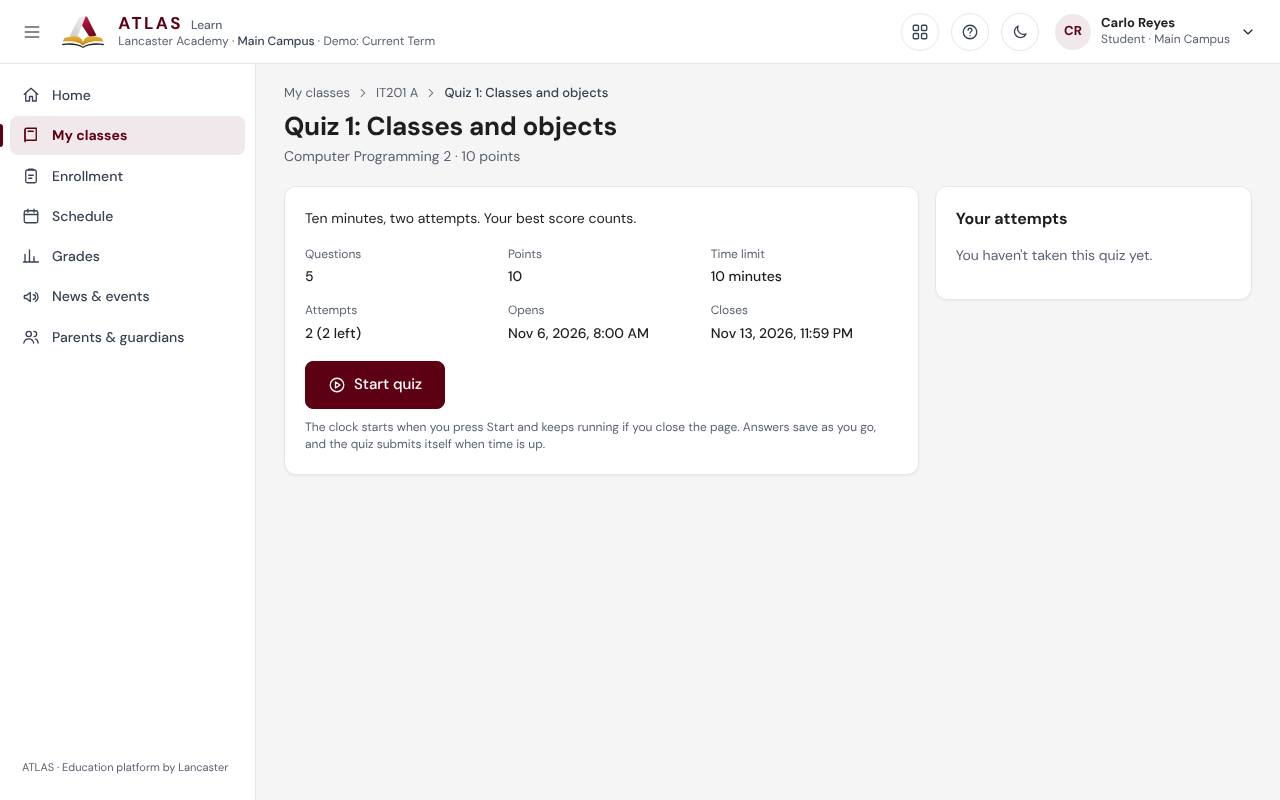
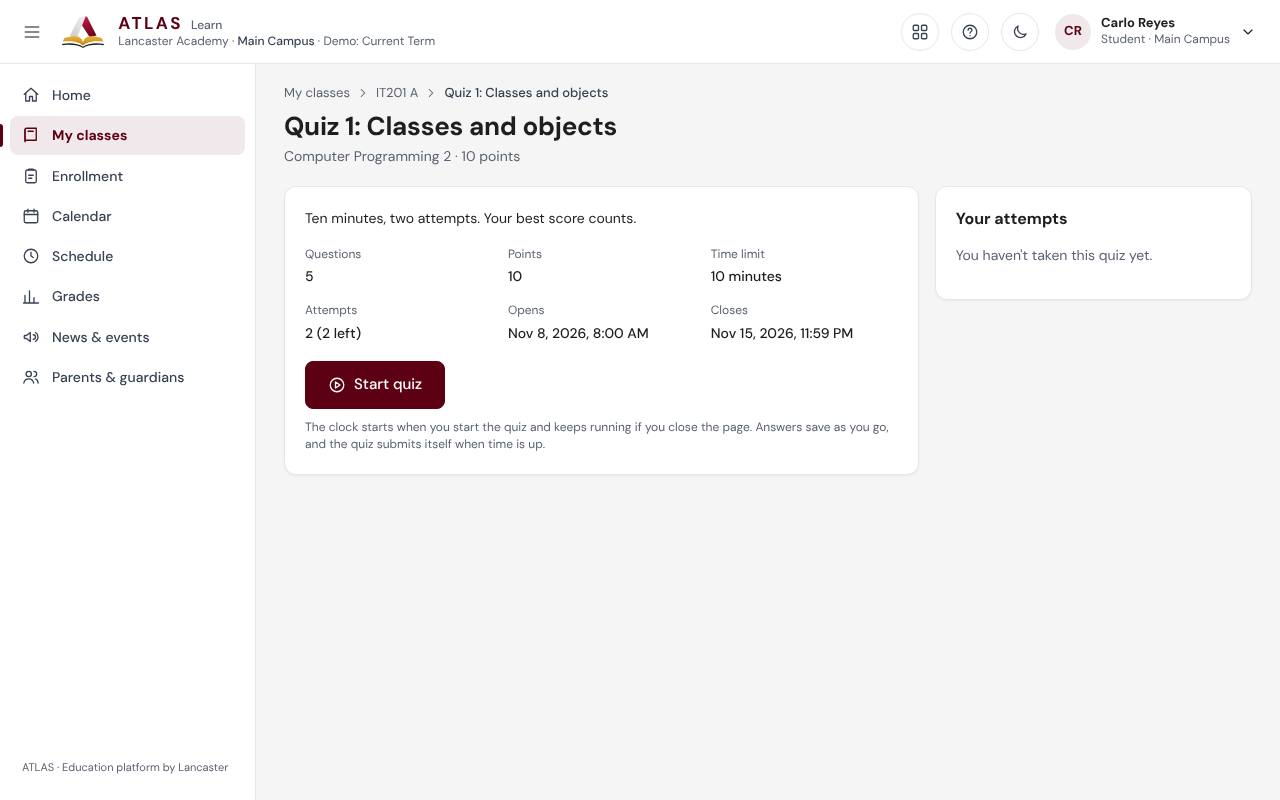
ATLAS: quiz answer key, Keycloak account linking, parent grades, application limit
First fixes from the second security review:

- Quizzes: with "Students see answers: Right after they submit", the answer
  key was sent after the first submitted attempt, even with attempts left
  (a blank attempt gave away the retake). It is now sent only when no
  attempts are left or the quiz has closed; until then the student sees
  their score. The quiz page and the builder say so.
- Keycloak, match by username: a Keycloak user named like a staff account
  (e.g. "admin") was linked to it. Only students, parents and staff are now
  linked on the username alone; every other account type also needs the
  same verified email in Keycloak as on the ATLAS account.
- Keycloak with ATLAS passwords off: sign-in answered differently for a
  right and a wrong password. Everyone but administrators now gets the same
  answer, counted against the wrong-password limits.
- Parents: a link without Grades still showed final grades (and the grade
  note in the history) under Enrollment.
- The application form's hourly limit per network address was defined but
  never attached to the route.

Tests for each; guides (student, teacher, admin), What's new and three
screenshots updated.

Claude-Session: https://claude.ai/code/session_0144m4kAiN1qd67UTLL7L4Zw

diff --git a/lms/test/security.test.js b/lms/test/security.test.js
@@ -315,3 +315,70 @@ test('password hashes are encrypted with the server key: switch-on, key change, 
     auth.setPasswordKeys('');
   }
 });
+
+// ----- Second assessment (November 2026) -----
+test('quiz answers shown "right after they submit" are sent only once the student cannot answer again', async () => {
+  const { seed } = await import('./support.js');
+  const env = setup();
+  const s = await seed(env);
+  await s.admin.post('/api/admin/enrollments', { studentId: s.students.s1.id, sectionId: s.sections.prog1.id, force: true });
+  const t1 = await s.login('teach1');
+  const s1 = await s.login('stud1');
+  const questions = [{ type: 'single', prompt: '2 + 2?', points: 2, options: [{ text: '3' }, { text: '4', correct: true }] }, { type: 'short', prompt: 'Capital?', points: 2, answers: ['Manila'] }];
+  const quiz = await t1.post(`/api/classes/${s.sections.prog1.id}/assignments`, { kind: 'quiz', title: 'Quiz', published: true, dueAt: '2026-08-20T23:59', quiz: { attempts: 2, showResults: 'immediately' }, questions });
+  const hasKey = (v) => /"correct":true|"answers":\["Manila"\]/.test(JSON.stringify(v));
+  // A blank first attempt: the score and what was right, but no key while a second attempt is left.
+  const first = await s1.post(`/api/quizzes/${quiz.id}/start`);
+  await s1.put(`/api/attempts/${first.id}`, { answers: {}, submit: true });
+  let mine = await s1.get(`/api/quizzes/${quiz.id}`);
+  assert.equal(mine.attemptsLeft, 1);
+  assert.equal(mine.review, null);
+  assert.equal(mine.reviewLater, true);
+  assert.equal(mine.attempts[0].score, 0);
+  assert.ok(!hasKey(mine), 'the answer key is not sent while an attempt is left');
+  // The last attempt used: now the key, for review.
+  const second = await s1.post(`/api/quizzes/${quiz.id}/start`);
+  assert.ok(!hasKey(await s1.get(`/api/quizzes/${quiz.id}`)), 'nor during the second attempt');
+  await s1.put(`/api/attempts/${second.id}`, { answers: {}, submit: true });
+  mine = await s1.get(`/api/quizzes/${quiz.id}`);
+  assert.equal(mine.attemptsLeft, 0);
+  assert.ok(hasKey(mine.review));
+  // Unlimited attempts: the key comes when the quiz closes.
+  const open = await t1.post(`/api/classes/${s.sections.prog1.id}/assignments`, { kind: 'quiz', title: 'Practice', published: true, dueAt: '2026-08-20T23:59', quiz: { attempts: 0, showResults: 'immediately' }, questions });
+  const a = await s1.post(`/api/quizzes/${open.id}/start`);
+  await s1.put(`/api/attempts/${a.id}`, { answers: {}, submit: true });
+  assert.ok(!hasKey(await s1.get(`/api/quizzes/${open.id}`)));
+});
+
+test('applications for admission are limited per network address', async () => {
+  const env = setup();
+  const admin = env.client();
+  await admin.post('/api/admin/auth/setup', { name: 'Ada Admin', username: 'admin', password: PW });
+  await admin.put('/api/admin/settings', { registration: { open: true } });
+  const form = (i) => ({ name: `Kid ${i}`, username: `kid${i}`, email: `kid${i}@example.com`, password: PW });
+  const here = from(env, '203.0.113.40');
+  for (let i = 0; i < 10; i++) await here.post('/api/auth/apply', form(i));
+  await assert.rejects(here.post('/api/auth/apply', form(10)), (e) => e.status === 429 && Boolean(e.headers['Retry-After']));
+  await from(env, '203.0.113.41').post('/api/auth/apply', form(11)); // another address still can
+});
+
+test('a parent whose link does not share Grades sees no final grades, in the class list or its history', async () => {
+  const { seed } = await import('./support.js');
+  const env = setup();
+  const s = await seed(env);
+  const past = await s.admin.post('/api/admin/enrollments', { studentId: s.students.s1.id, sectionId: s.sections.pastProg1.id, force: true });
+  const t2 = await s.login('teach2');
+  await t2.put(`/api/classes/${s.sections.pastProg1.id}/final-grades`, { grades: [{ enrollmentId: past.id, grade: 91 }] });
+  await s.admin.post('/api/admin/guardians', { name: 'Mara Mom', username: 'mara', password: PW, mustChangePassword: false, studentId: s.students.s1.id, relationship: 'Mother', views: { enrollment: true, grades: false } });
+  const mom = env.client();
+  await mom.post('/api/hub/login', { username: 'mara', password: PW });
+  const seen = await mom.get(`/api/guardian/children/${s.students.s1.id}?termId=${s.past.id}`);
+  assert.equal(seen.enrollment.length, 1);
+  assert.equal(seen.enrollment[0].finalGrade, null);
+  assert.equal(seen.enrollment[0].passed, null);
+  assert.ok(seen.enrollment[0].history.every((h) => !/grade|91|passed|failed/i.test(h.note)), 'no grade in the history notes');
+  // With Grades shared, they are there.
+  const [link] = await s.admin.get(`/api/admin/students/${s.students.s1.id}/guardians`);
+  await s.admin.put(`/api/admin/guardian-links/${link.id}`, { views: { enrollment: true, grades: true } });
+  assert.equal((await mom.get(`/api/guardian/children/${s.students.s1.id}?termId=${s.past.id}`)).enrollment[0].finalGrade, 91);
+});

diff --git a/lms/public/js/portal/views/quiz.js b/lms/public/js/portal/views/quiz.js
@@ -40,7 +40,7 @@ export async function quizEditView(el, { id, classId }) {
         <label class="field"><span>Closes</span><input type="datetime-local" name="dueAt" value="${q.dueAt}" /><span class="hint">Attempts in progress are submitted at this time.</span></label>
         <label class="field"><span>Time limit (minutes)</span><input type="number" name="timeLimit" min="0" max="600" value="${q.quiz.timeLimit}" /><span class="hint">0 = no limit. The server keeps the time, not the student's computer.</span></label>
         <label class="field"><span>Attempts allowed</span><input type="number" name="attempts" min="0" max="20" value="${q.quiz.attempts}" /><span class="hint">0 = unlimited. The highest score counts.</span></label>
-        <label class="field"><span>Students see answers</span><select name="showResults">${Object.entries(SHOW_LABELS).map(([k, l]) => html`<option value="${k}" ${k === q.quiz.showResults ? 'selected' : ''}>${l}</option>`)}</select></label>
+        <label class="field"><span>Students see answers</span><select name="showResults">${Object.entries(SHOW_LABELS).map(([k, l]) => html`<option value="${k}" ${k === q.quiz.showResults ? 'selected' : ''}>${l}</option>`)}</select><span class="hint">While a student still has attempts left, they see their score only; the correct answers show once no attempts are left or the quiz closes.</span></label>
         <div class="field"><span>Options</span>
           <label class="field check"><input type="checkbox" name="shuffle" ${q.quiz.shuffle ? 'checked' : ''} /> <span>Shuffle question order for each student</span></label>
           <label class="field check"><input type="checkbox" name="published" ${q.published ? 'checked' : ''} /> <span>Published (students can see it)</span></label></div>
@@ -220,9 +220,10 @@ function quizIntro(el, q, cls) {
             ${!q.open ? html`<span class="badge ${q.opensAt && !submitted.length ? 'gray' : 'red'}">${q.opensAt && new Date(`${q.opensAt}:00`) > new Date() ? `Opens ${fmtDateTime(q.opensAt)}` : 'Closed'}</span>` : ''}
             ${q.open && q.attemptsLeft === 0 ? html`<span class="badge gray">No attempts left</span>` : ''}
           </div>
-          ${canStart && q.quiz.timeLimit ? html`<p class="hint" style="margin-top:10px">The clock starts when you press Start and keeps running if you close the page. Answers save as you go, and the quiz submits itself when time is up.</p>` : ''}
+          ${canStart && q.quiz.timeLimit ? html`<p class="hint" style="margin-top:10px">The clock starts when you start the quiz and keeps running if you close the page. Answers save as you go, and the quiz submits itself when time is up.</p>` : ''}
         </section>
         ${q.review && best ? html`<h3>Your best attempt, with answers</h3>${q.review.map((x, i) => questionReview(x, i, best))}` : ''}
+        ${q.reviewLater ? html`<p class="hint" style="margin-top:14px">${icon('lock', 14)} The correct answers show here once you have no attempts left or the quiz closes. Until then you see your score.</p>` : ''}
       </div>
       <section class="card"><h2>Your attempts</h2>
         ${submitted.length ? html`<div class="list">${submitted.map((a, i) => html`<div class="list-item"><span class="item-ic ${a.score != null ? 'ok' : ''}">${icon(a.score != null ? 'checkCircle' : 'clock')}</span>

diff --git a/lms/test/sso.test.js b/lms/test/sso.test.js
@@ -112,6 +112,11 @@ test('settings: the secret is never shown, Keycloak must answer before SSO turns
   // Passwords off: everyone but administrators signs in with Keycloak.
   await f.admin.put('/api/admin/sso', { allowPasswords: false });
   await assert.rejects(f.env.client().post('/api/hub/login', { username: 'rosa', password: PW }), /signs in with Keycloak/);
+  // The same answer for a wrong password and for an account that does not exist: old passwords cannot be tested.
+  const answer = (body) => f.env.client().post('/api/hub/login', body).then(() => 'signed in', (e) => `${e.status} ${e.message}`);
+  const right = await answer({ username: 'rosa', password: PW });
+  assert.equal(await answer({ username: 'rosa', password: 'not-her-password' }), right);
+  assert.equal(await answer({ username: 'nobody-here', password: PW }), right);
   await f.env.client().post('/api/hub/login', { username: 'admin', password: PW }); // a way in if Keycloak is down
   // Registrars cannot change SSO.
   const reg = f.env.client();
@@ -142,6 +147,19 @@ test('signing out of ATLAS also ends the Keycloak session', async () => {
 
 test('ES256-signed tokens and matching by username work too', async () => {
   const f = await school({ providerOptions: { alg: 'ES256' }, matchBy: 'username' });
-  const { client } = await f.ssoSignIn({ sub: 'kc-42', preferred_username: 'Rosa', email: 'someone-else@school.edu' });
-  assert.equal((await client.get('/api/hub/status')).user.username, 'rosa');
+  // A student is linked by the username alone.
+  const { client } = await f.ssoSignIn({ sub: 'kc-41', preferred_username: 'Carlo', email: 'someone-else@school.edu' });
+  assert.equal((await client.get('/api/hub/status')).user.username, 'carlo');
+  // A staff account is not: a Keycloak user who can name themselves "admin" or "rosa" does not get
+  // that account unless Keycloak also vouches for the email on it.
+  const refused = async (claims, re) => {
+    const { res } = await f.ssoSignIn(claims);
+    assert.match(decodeURIComponent(res.raw), re);
+  };
+  await refused({ sub: 'kc-evil', preferred_username: 'ADMIN', email_verified: false }, /must be verified and the same/);
+  await refused({ sub: 'kc-evil', preferred_username: 'admin', email: 'eve@school.edu', email_verified: true }, /must be verified and the same/);
+  await refused({ sub: 'kc-42', preferred_username: 'Rosa', email: 'rosa@school.edu' }, /must be verified and the same/); // not verified
+  assert.ok(!f.env.db.data.users.some((u) => u.ssoSubject?.endsWith('|kc-evil')));
+  const rosa = await f.ssoSignIn({ sub: 'kc-42', preferred_username: 'Rosa', email: 'ROSA@school.edu', email_verified: true }, { next: '/admin' });
+  assert.equal((await rosa.client.get('/api/admin/auth/status')).user.username, 'rosa');
 });

diff --git a/lms/server/api.js b/lms/server/api.js
@@ -138,11 +138,17 @@ export function createApi(db, { clock = () => new Date(), setupCode = process.en
     throttle.check(here);
     throttle.check(key);
     const user = users().find((u) => u.username === username);
-    if (password.length > 200 || !verifyPassword(password, user?.passwordHash)) {
+    // With single sign-on on and passwords off, only administrators keep a password (a way in if
+    // Keycloak is down). Everyone else gets the same answer whether the password was right, wrong
+    // or the account does not exist, so old passwords cannot be tested here.
+    const sso = db.data.settings.sso;
+    const passwordsOff = Boolean(sso?.enabled && !sso.allowPasswords);
+    const right = password.length <= 200 && verifyPassword(password, user?.passwordHash);
+    if (!right || (passwordsOff && user.role !== 'admin')) {
       limits.add('signinFail', ip);
       throttle.fail(here);
       throttle.fail(key, 10);
-      fail('Incorrect username or password.', 401);
+      fail(passwordsOff ? `This school signs in with Keycloak. Choose "${sso.label}".` : 'Incorrect username or password.', 401);
     }
     throttle.reset(here);
     throttle.reset(key);
@@ -157,9 +163,6 @@ export function createApi(db, { clock = () => new Date(), setupCode = process.en
     if (user.status === 'pending') fail('Your application is still being reviewed. You can sign in once the registrar admits you.', 403);
     if (user.status === 'rejected') fail('Your application was not accepted. Contact the registrar for details.', 403);
     if (user.status !== 'active') fail('This account is disabled. Contact the registrar.', 403);
-    // With single sign-on switched on and passwords off, only administrators keep a password (a way in if Keycloak is down).
-    const sso = db.data.settings.sso;
-    if (sso?.enabled && !sso.allowPasswords && user.role !== 'admin') fail(`This school signs in with Keycloak. Choose "${sso.label}".`, 403);
     user.lastLoginAt = new Date().toISOString();
     db.save();
     return { data: { user: publicUser(user) }, headers: { 'Set-Cookie': sessionCookie(COOKIES[side], sides[side].create(user.id), idleMs()) } };
@@ -256,7 +259,7 @@ export function createApi(db, { clock = () => new Date(), setupCode = process.en
     users().push(user);
     db.save();
     return { ok: true };
-  });
+  }, { limit: 'apply' });
 
   // ----- University Portal (/): one sign-in for every system -----
   // The account type decides which session is opened: students and teachers get the

diff --git a/lms/server/sso.js b/lms/server/sso.js
@@ -17,6 +17,7 @@
 // the client secret only in the environment (OIDC_CLIENT_SECRET), never in the data file or backups.
 import { randomBytes, createHash, createPublicKey, verify as cryptoVerify } from 'node:crypto';
 import { HttpError, text } from './util.js';
+import { ROLES } from '../shared/roles.js';
 
 const fail = (msg, status = 400) => {
   throw new HttpError(status, msg);
@@ -24,6 +25,8 @@ const fail = (msg, status = 400) => {
 export const SSO_STATE_COOKIE = 'ltdc_sso_state';
 export const DEFAULT_SSO = { enabled: false, issuer: '', clientId: '', label: 'Sign in with Keycloak', matchBy: 'email', allowPasswords: true };
 const NEXT_OK = ['/', '/lms/', '/admin', '/hris/', '/academic/'];
+// Account types a Keycloak username alone may link (the first time); every other type also needs a verified, matching email.
+const USERNAME_ALONE = ['student', 'guardian', 'staff'];
 const b64url = (buf) => Buffer.from(buf).toString('base64url');
 const fromB64url = (s) => Buffer.from(String(s), 'base64url');
 
@@ -120,6 +123,15 @@ export function registerSsoRoutes(route, ctx, { startSession, secret = process.e
       if (cfg().matchBy === 'username') {
         const name = String(claims.preferred_username || '').trim().toLowerCase();
         user = name ? all.find((u) => u.username === name) : null;
+        // A username alone must not hand over an account with powers (a Keycloak user who could
+        // name themselves "admin" would become the administrator). Such an account is linked only
+        // when Keycloak also vouches for the email on the ATLAS account.
+        if (user && !USERNAME_ALONE.includes(user.role)) {
+          const email = String(claims.email || '').trim().toLowerCase();
+          if (!email || claims.email_verified !== true || email !== String(user.email || '').toLowerCase()) {
+            fail(`To link the ${ROLES[user.role]?.label || 'staff'} account ${user.username}, your Keycloak email must be verified and the same as the email on that ATLAS account. Ask an administrator to check both.`, 403);
+          }
+        }
       } else {
         const email = String(claims.email || '').trim().toLowerCase();
         // Only a verified email may find an account (a missing claim counts as not verified).

diff --git a/lms/public/js/admin/views/sso.js b/lms/public/js/admin/views/sso.js
@@ -21,7 +21,7 @@ export async function ssoView(el) {
           <label class="field"><span>Button text</span><input name="label" value="${s.label}" /></label>
           <label class="field span-2"><span>Match Keycloak users to ATLAS accounts by</span>
             <select name="matchBy"><option value="email" ${s.matchBy === 'email' ? 'selected' : ''}>Email (verified in Keycloak)</option><option value="username" ${s.matchBy === 'username' ? 'selected' : ''}>Username</option></select>
-            <span class="hint">The first sign-in links the two; after that the link is used, even if the email changes. Only people who already have an ATLAS account can sign in.</span></label>
+            <span class="hint">The first sign-in links the two; after that the link is used, even if the email changes. Only people who already have an ATLAS account can sign in. By username, only students, parents and staff are linked on the username alone: teachers, registrars, deans, administrators and officers must also have the same verified email in Keycloak as on their ATLAS account.</span></label>
           <label class="field check span-2"><input type="checkbox" name="allowPasswords" ${s.allowPasswords ? 'checked' : ''} /> <span><strong>Keep ATLAS passwords too.</strong> Off: everyone except administrators must use Keycloak (administrators keep a password, in case Keycloak is down).</span></label>
           <label class="field check span-2"><input type="checkbox" name="enabled" ${s.enabled ? 'checked' : ''} /> <span><strong>Show "${s.label}" on the sign-in pages.</strong> ATLAS checks that Keycloak answers before switching this on.</span></label>
         </div>

diff --git a/lms/server/quiz.js b/lms/server/quiz.js
@@ -155,6 +155,11 @@ export function registerQuizRoutes(route, ctx, { access, findAssignment, isOpen 
     const mine = attemptsOf(quiz.id, user.id);
     const show = resultsVisible(quiz, nowLocal());
     const current = mine.find((x) => !x.submittedAt);
+    const submitted = mine.filter((x) => x.submittedAt).length;
+    // The answer key is sent only once the student cannot answer again: no attempts left, or the
+    // quiz has closed. Before that they see their score and which answers were right, not the key
+    // (otherwise a blank first attempt would give away the second).
+    const finished = !isOpen(quiz) || (quiz.quiz.attempts > 0 && submitted >= quiz.quiz.attempts);
     return {
       ...base,
       resultsVisible: show,
@@ -163,7 +168,8 @@ export function registerQuizRoutes(route, ctx, { access, findAssignment, isOpen 
       attemptsLeft: quiz.quiz.attempts ? Math.max(0, quiz.quiz.attempts - mine.filter((x) => x.submittedAt).length) : null,
       current: current ? { ...studentAttemptView(quiz, current, false), questions: orderFor(quiz, current).map(questionForStudent) } : null,
       // After results are released, the questions with the right answers, for review.
-      review: show && mine.some((x) => x.submittedAt) ? quiz.questions : null,
+      review: show && submitted && finished ? quiz.questions : null,
+      reviewLater: Boolean(show && submitted && !finished), // the key comes when attempts run out or the quiz closes
     };
   }, { module: 'assignments' });
 

diff --git a/lms/server/guardian.js b/lms/server/guardian.js
@@ -155,7 +155,9 @@ export function registerGuardianRoutes(route, ctx, { standing, resultFor, isOpen
         .filter((e) => e.studentId === student.id && e.termId === termId)
         .map((e) => {
           const v = enrollmentView(d, e);
-          return { id: v.id, status: v.status, statusLabel: v.statusLabel, position: v.position, section: v.section, finalGrade: v.finalGrade ?? null, passed: v.passed ?? null, createdAt: v.createdAt, updatedAt: v.updatedAt, history: (v.history || []).map((h) => ({ at: h.at, status: h.status, note: h.note || '' })) };
+          return { id: v.id, status: v.status, statusLabel: v.statusLabel, position: v.position, section: v.section, finalGrade: has('grades') ? v.finalGrade ?? null : null, passed: has('grades') ? v.passed ?? null : null, createdAt: v.createdAt, updatedAt: v.updatedAt,
+            // Without Grades on this link, the history says a class was completed but not with which grade.
+            history: (v.history || []).map((h) => ({ at: h.at, status: h.status, note: !has('grades') && /^Final grade/i.test(h.note || '') ? '' : h.note || '' })) };
         })
         .sort((a, b) => a.section.course.code.localeCompare(b.section.course.code));
     }

diff --git a/lms/docs/guides/student.md b/lms/docs/guides/student.md
@@ -47,7 +47,7 @@ Try this with the demo school: sign in as `student.demo` (password `demo1234`). 
 ![A quiz before you start it](student-quiz.jpg)
 
 6. Answer the questions. Your answers save as you go (*All answers saved.*), and the numbered boxes on the right show which questions you have answered. Choose **Submit**, then **Submit** again to confirm.
-7. Back on the quiz page, **Your attempts** shows your attempt. This quiz shows the correct answers right after you submit; the essay question is scored by your teacher afterwards.
+7. Back on the quiz page, **Your attempts** shows your attempt. Your score shows right after you submit. This quiz allows two attempts, so the correct answers appear once you have used both, or when the quiz closes. The essay question is scored by your teacher afterwards.
 8. In the sidebar, open **Enrollment**. Tick **Show sections I can't take, and why** to see every section of the term, with the reason next to the ones you cannot take (for example *IT202 requires IT201 first*).
 
 ![Open sections, with the reasons you can't take some of them](student-enrollment.jpg)
@@ -80,7 +80,7 @@ Your work then shows under **Your work** as *Handed in*. Until your teacher scor
 3. Answer each question. For *Choose all that apply*, tick every right choice; wrong ticks take points away.
 4. Choose **Submit** and confirm. If some questions are unanswered, ATLAS tells you how many first.
 
-The highest score of your attempts counts (**Counts toward your grade**). Depending on the quiz, the correct answers appear right after you submit, after the quiz closes, or never.
+The highest score of your attempts counts (**Counts toward your grade**). Depending on the quiz, the correct answers appear right after you submit, after the quiz closes, or never. While you still have attempts left you see your score only; the correct answers come once no attempts are left or the quiz closes.
 
 > **Important:** The clock is kept by the school's server, not your computer. It keeps running if you close the page, and when time is up the quiz submits the answers you saved.
 
@@ -224,7 +224,7 @@ Final grades in Learn are percentages. Academic turns them into the grading scal
 No. Answers save as you go. Open the quiz again to carry on while time is left; when time runs out, what you saved is submitted.
 
 **Why can't I see the correct answers of a quiz?**
-Your teacher chooses when they appear: right after you submit, after the quiz closes, or never (score only). Until then the answer key is never sent to your computer.
+Your teacher chooses when they appear: right after you submit, after the quiz closes, or never (score only). Even with *right after you submit*, they wait until you have no attempts left or the quiz closes, so that a second attempt is still your own work. Until then the answer key is never sent to your computer.
 
 **A payment I made is not under My payments.**
 Only official receipts issued in your name appear. Ask the cashier.

diff --git a/lms/docs/guides/admin.md b/lms/docs/guides/admin.md
@@ -251,11 +251,11 @@ You need a Keycloak realm, and someone who can change the server's settings.
 2. In Keycloak, create the client as listed in the **In Keycloak** card. Use **Copy** for the **Valid redirect URIs** and **Valid post logout redirect URIs**.
 3. Put the client secret in the server's settings as `OIDC_CLIENT_SECRET` and restart ATLAS. It is never typed into the admin panel. The **Status** card then shows **Client secret: Set on the server**. Without a secret (**Not set**), make the Keycloak client public instead (**Client authentication** off).
 4. Back in **Single sign-on**, type the **Issuer (realm address)** and **Client ID**, and change the **Button text** if you like.
-5. Choose how to **Match Keycloak users to ATLAS accounts by**: **Email (verified in Keycloak)** or **Username**.
+5. Choose how to **Match Keycloak users to ATLAS accounts by**: **Email (verified in Keycloak)** or **Username**. By username, only students, parents and staff are linked on the username alone; teachers, registrars, deans, administrators and officers must also have the same verified email in Keycloak as on their ATLAS account, so that nobody gets such an account just by having its username in Keycloak.
 6. Choose **Test connection**. ATLAS shows *Keycloak answered.* or what went wrong.
 7. Tick **Show "Sign in with Keycloak" on the sign-in pages** and choose **Save**.
 
-Leave **Keep ATLAS passwords too** ticked while people get used to it. When you untick it, everyone except administrators must sign in with Keycloak; administrators keep their password in case Keycloak is down.
+Leave **Keep ATLAS passwords too** ticked while people get used to it. When you untick it, everyone except administrators must sign in with Keycloak; administrators keep their password in case Keycloak is down. Anyone else who types a password is told to use Keycloak, whether the password was right or not.
 
 ![Single sign-on settings](admin-sso.jpg)
 

diff --git a/lms/docs/guides/whats-new.md b/lms/docs/guides/whats-new.md
@@ -9,6 +9,12 @@ order: 2
 
 ## November 2026
 
+### Second security review: first fixes
+- **Quizzes:** with *Students see answers: Right after they submit*, a student who still has attempts left now sees their score only. The correct answers show once no attempts are left or the quiz closes, so a second attempt is still the student's own work. See [the teacher's guide](teacher#build-a-quiz-or-exam) and [the student's guide](student#take-a-quiz-or-exam).
+- **Parents:** a link that does not share **Grades** no longer shows final grades under **Enrollment**.
+- **Keycloak:** matching by username links teachers, registrars, deans, administrators and officers only when their verified Keycloak email is also the one on their ATLAS account. With ATLAS passwords switched off, typing a password gives the same answer whether it was right or not. See [the administrator's guide](admin#set-up-single-sign-on-with-keycloak).
+- The **Apply for admission** form accepts ten applications an hour from one network address.
+
 ### The guides were checked against every screen
 - Every guide was followed step by step in ATLAS and corrected where a name, a step or a result no longer matched the screen: confirmations that were missing (**Finalize**, **Withdraw**, **Release**), buttons that load a report (**Show**), where a list is filtered, and who may do what.
 - The guides now use the same words throughout: **choose** a button, link or tab; **press** a key; **tick** a box.

diff --git a/lms/docs/guides/teacher.md b/lms/docs/guides/teacher.md
@@ -107,7 +107,7 @@ The student sees the score and your feedback. To send work back so the student c
 
 1. Open the class, choose **Activities** and choose **New quiz or exam**.
 2. Under **Details**, fill in the **Title** and choose the **Type** (it shows how much that type counts in the grade).
-3. Set **Opens** and **Closes**, the **Time limit (minutes)** (0 = no limit), **Attempts allowed** (0 = unlimited; the highest score counts) and **Students see answers**: *Right after they submit*, *After the quiz closes* or *Never (score only)*.
+3. Set **Opens** and **Closes**, the **Time limit (minutes)** (0 = no limit), **Attempts allowed** (0 = unlimited; the highest score counts) and **Students see answers**: *Right after they submit*, *After the quiz closes* or *Never (score only)*. With *Right after they submit*, a student who still has attempts left sees their score only; the correct answers show once no attempts are left or the quiz closes.
 4. Tick **Shuffle question order for each student** if you want.
 5. Write the questions. Change a question's kind with its drop-down, and add more with the buttons under **Add a question**: *One answer*, *Several answers*, *True or false*, *Short answer* and *Essay*. Tick the correct choices; for a short answer, list the accepted answers one per line.
 6. Tick **Published (students can see it)** when it is ready, and choose **Create quiz**.
